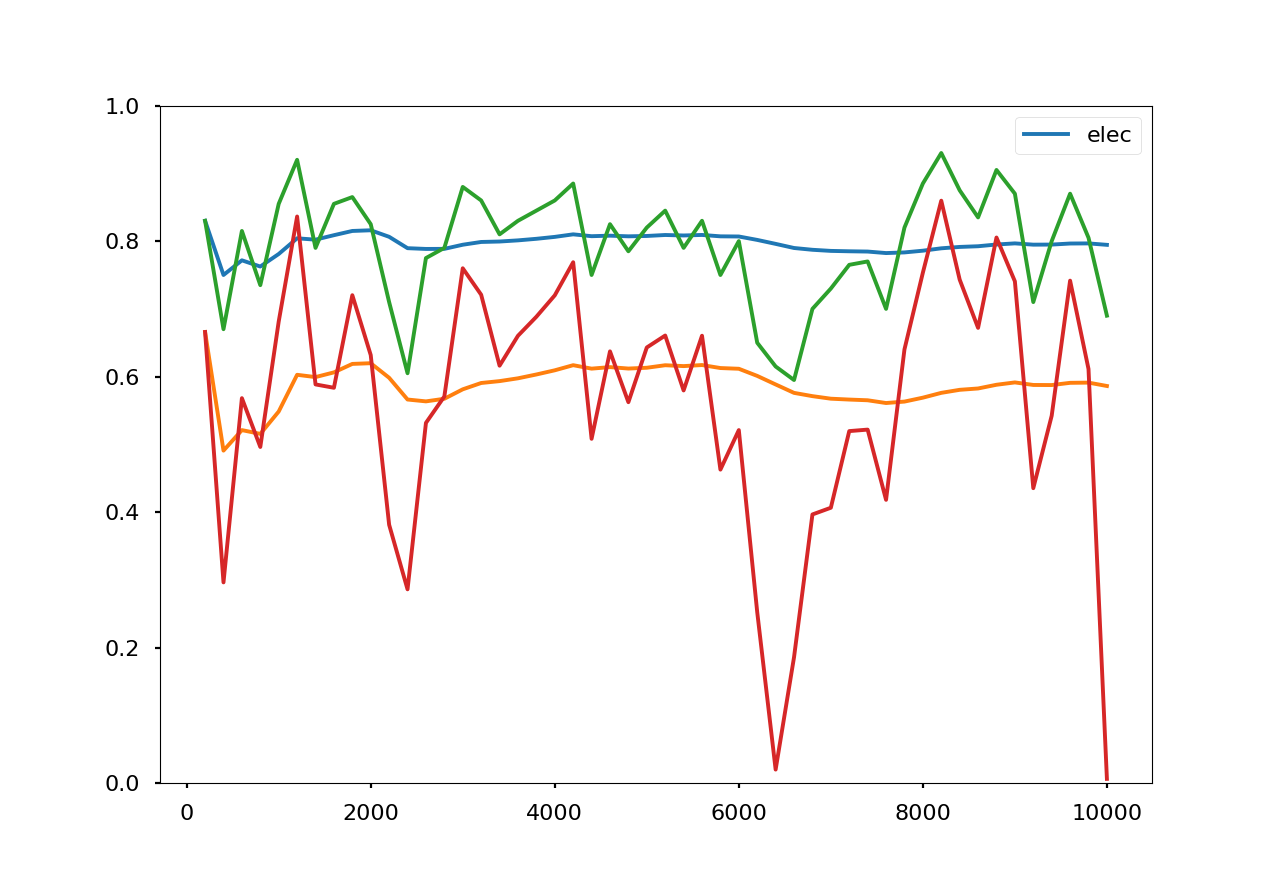
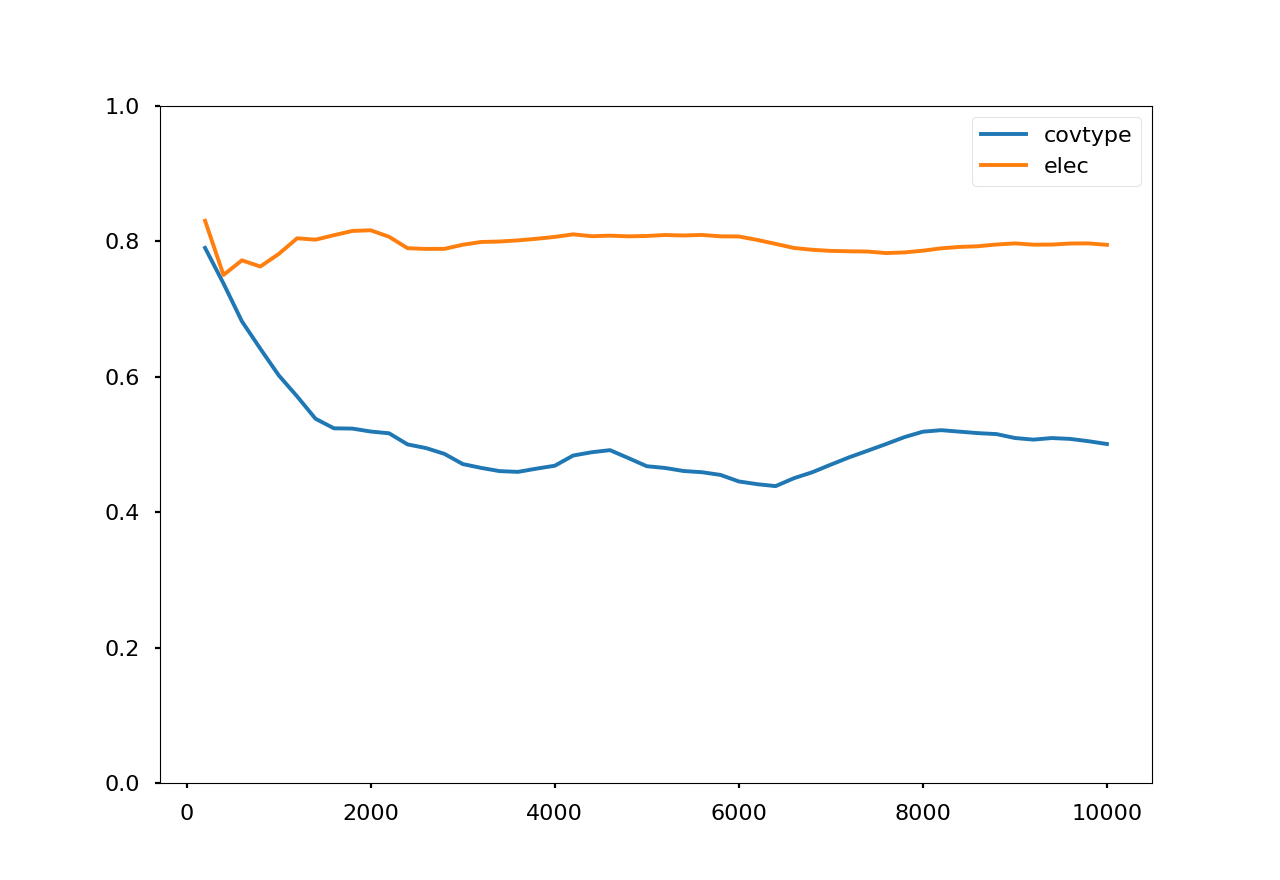
Add more results

Changed region(s): [[0.1562, 0.1227, 0.875, 0.8898], [0.5938, 0.7057, 0.625, 0.8591]]

diff --git a/demos/_visualizer/simple.py b/demos/_visualizer/simple.py
@@ -21,15 +21,15 @@ def plot_topics(demo, demo_type, model, topics):
         df = pd.read_csv(path, comment='#')
         x = df[['id']]
         mean_acc = pd.concat([mean_acc, df[['mean_acc_[M0]']]], axis=1)
-        mean_kappa = pd.concat([mean_kappa, df[['mean_kappa_[M0]']]], axis=1)
-        current_acc = pd.concat([current_acc, df[['current_acc_[M0]']]], axis=1)
-        current_kappa = pd.concat([current_kappa, df[['current_kappa_[M0]']]], axis=1)
+        # mean_kappa = pd.concat([mean_kappa, df[['mean_kappa_[M0]']]], axis=1)
+        # current_acc = pd.concat([current_acc, df[['current_acc_[M0]']]], axis=1)
+        # current_kappa = pd.concat([current_kappa, df[['current_kappa_[M0]']]], axis=1)
 
     f, ax = plt.subplots(1)
     ax.plot(x, mean_acc)
-    ax.plot(x, mean_kappa)
-    ax.plot(x, current_acc)
-    ax.plot(x, current_kappa)
+    # ax.plot(x, mean_kappa)
+    # ax.plot(x, current_acc)
+    # ax.plot(x, current_kappa)
     ax.set_ylim(ymin=0, ymax=1)
     plt.legend(topics)
 
@@ -45,6 +45,8 @@ def get_path(demo, demo_type, model, topic):
 
 if __name__ == "__main__":
     demos = ['auto-sklearn', 'automl-streams', 'tpot']
+    demos = ['tpot']
+
     demo_types = ['batch', 'online', 'online_drift', 'meta']
     demo_types = ['batch']
 
@@ -53,13 +55,17 @@ if __name__ == "__main__":
         'covtype', 'elec', 'pokerhand', 'weather'
     ]
 
+    all_topics = [
+        'covtype', 'elec'
+    ]
+
     for demo in demos:
         for demo_type in demo_types:
-            if demo == 'automl-streams':
+            if demo == 'auto-sklearn':
                 if demo_type == 'batch':
                     topics = all_topics
                     models = ['AutoSklearnClassifier']
-            if demo == 'automl-streams':
+            elif demo == 'automl-streams':
                 if demo_type == 'batch':
                     topics = all_topics
                     models = ['GradientBoostingClassifier', 'KNeighborsClassifier', 'LogisticRegression', 'SGDClassifier']
@@ -76,5 +82,6 @@ if __name__ == "__main__":
                 if demo_type == 'batch':
                     topics = all_topics
                     models = ['TPOTClassifier']
+            
             for model in models:
                 plot_topics(demo, demo_type, model, topics)

diff --git a/demos/auto-sklearn/batch.py b/demos/auto-sklearn/batch.py
@@ -45,8 +45,5 @@ if __name__ == "__main__":
         'hyperplane_gen', 'led_gen', 'rbf_gen', 'sea_gen',
         'covtype', 'elec', 'pokerhand', 'weather'
     ]
-    topics = [
-        'elec'
-    ]
     for topic in topics:
         run(topic)

diff --git a/demos/_datasets/_README.md b/demos/_datasets/_README.md
@@ -2,7 +2,7 @@
 
 Generated datasets: hyperplane_gen, led_gen, rbf_gen, sea_gen
 Real datasets: covtype, elec, pokerhand, weather
-Combination: CovPokElec
+
 
 
 OpenML IDs:
